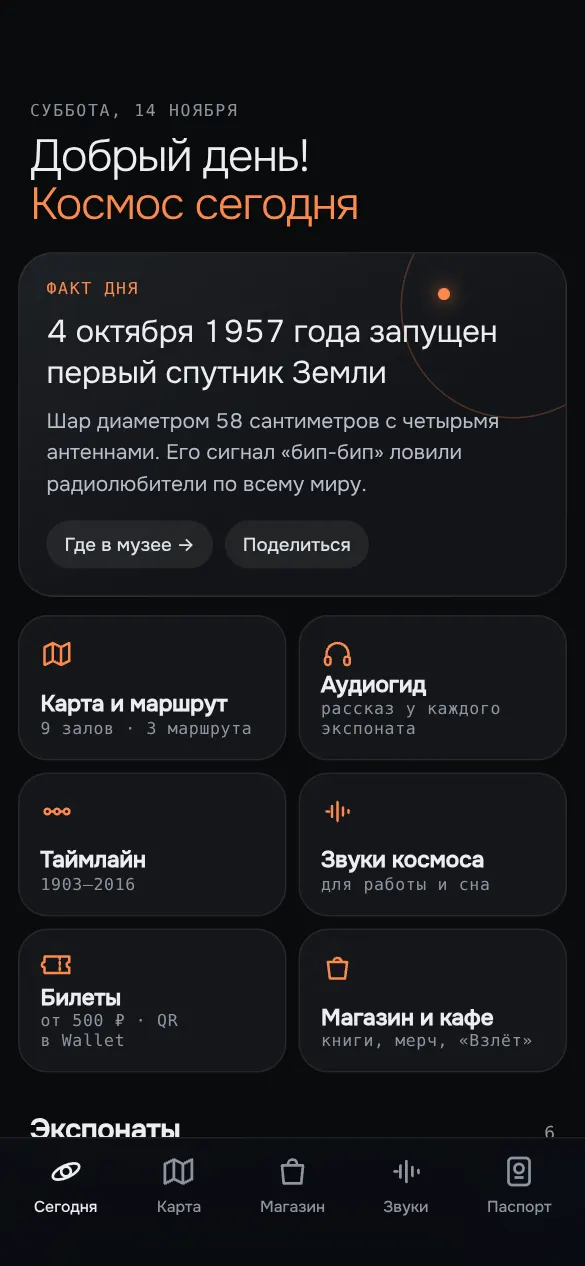
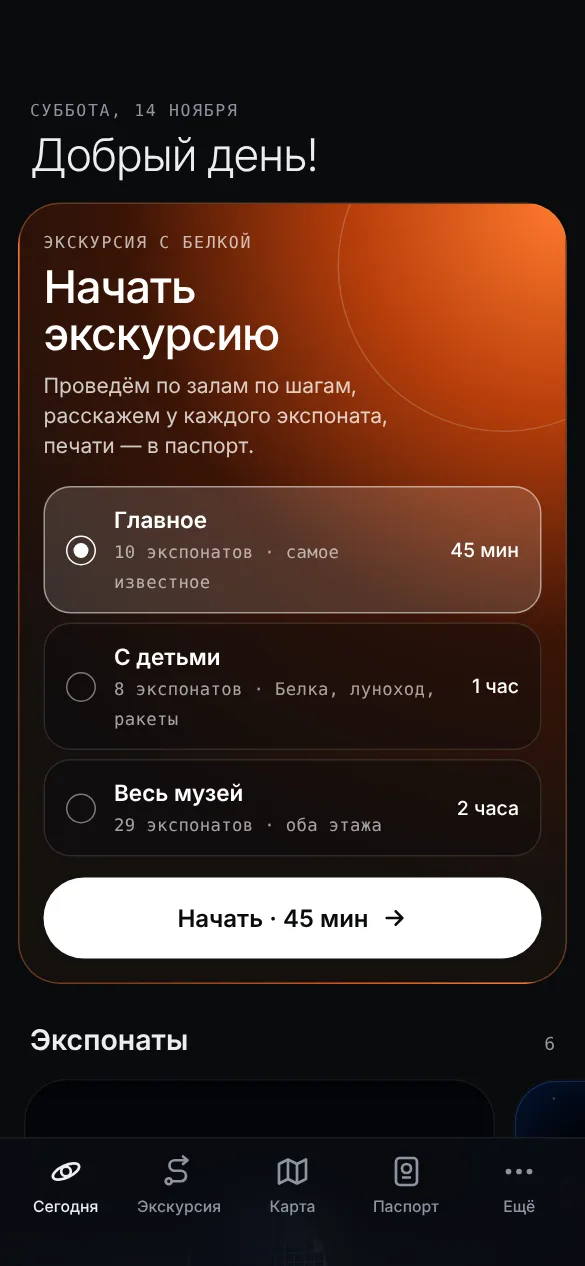
kosmo-museum: карта приложения под новую навигацию + слайд «Карта приложения»
Claude-Session: https://claude.ai/code/session_01YJBZo4ctwu5nxzdrpfljgu

diff --git a/kosmo-museum/flow/index.html b/kosmo-museum/flow/index.html
@@ -56,13 +56,13 @@ h2{font-weight:400;font-size:clamp(30px,4vw,48px);letter-spacing:-.03em;margin:9
 <div class="wrap">
   <div class="k">(01) «Музей в кармане» · Музей космонавтики</div>
   <h1>Карта <em>приложения</em></h1>
-  <p class="lead">Все экраны и переходы — и главный путь посетителя от монумента до последней печати в паспорте.</p>
+  <p class="lead">Все экраны и переходы. Главный путь: от «Начать экскурсию» на первом экране до печати и значка в паспорте.</p>
   <div class="legend"><span><i class="a"></i>главный путь посетителя</span><span><i></i>раздел приложения</span><span><i class="f"></i>экран или действие внутри раздела</span></div>
 
   <div class="scroll"><div class="board" id="board"><svg id="wires"></svg></div></div>
 
   <h2>Главный путь</h2>
-  <p class="sub">Семь шагов, которые проходит почти каждый: от первого запуска у монумента до итога визита. Остальное — ответвления, в которые можно зайти из любого шага.</p>
+  <p class="sub">Семь экранов, которые проходит почти каждый: от первого запуска до значка в паспорте. Остальное — ответвления, в которые можно зайти из любого шага.</p>
   <div class="strip" id="main"></div>
 
   <h2>Остальные экраны</h2>
@@ -71,9 +71,9 @@ h2{font-weight:400;font-size:clamp(30px,4vw,48px);letter-spacing:-.03em;margin:9
 
   <h2>Почему так</h2>
   <div class="notes">
-    <div class="note"><b>Одна точка входа</b><span>Всё начинается с «Сегодня»: факт дня, маршрут, экспонаты. Посетителю не нужно выбирать раздел — главное действие на первом экране.</span></div>
-    <div class="note"><b>Маршрут ведёт сам</b><span>После выбора маршрута включается аудиогид в мини-плеере: «следующий экспонат» всегда под пальцем, карта подсказывает, куда идти.</span></div>
-    <div class="note"><b>NFC — главный ритуал</b><span>Приложил телефон к табличке — открылось досье и упала печать. Один жест вместо поиска по меню, и повод пройти зал до конца.</span></div>
+    <div class="note"><b>Экскурсия — с первого экрана</b><span>В музее главный вопрос — «куда идти». Поэтому «Сегодня» открывается кнопкой «Начать экскурсию» с выбором времени, а во время визита — «Продолжить: следующий экспонат».</span></div>
+    <div class="note"><b>Пять вкладок вместо девяти входов</b><span>Сегодня · Экскурсия · Карта · Паспорт · Ещё. Магазин, кафе, билеты, квест и звуки ушли в «Ещё» — в зале они отвлекают от экскурсии.</span></div>
+    <div class="note"><b>NFC — главный ритуал</b><span>Приложил телефон к табличке — метка найдена, открылось досье, упала печать, маршрут сдвинулся. За 5 печатей — значок «Курсант», за 15 — «Пилот».</span></div>
     <div class="note"><b>Белка рядом, но не мешает</b><span>Гид открывается из любого экрана, а в остальное время живёт в иллюминаторе — в карточке и в плеере.</span></div>
     <div class="note"><b>Повод вернуться</b><span>Паспорт с наградами, квесты коллабораций, звуки космоса и факт дня в пуше работают и после визита.</span></div>
   </div>
@@ -86,32 +86,42 @@ const T = ['Онбординг', 'a', '', [
   ['Разрешения: NFC и уведомления', '', '', []]
 ]];
 const HUB = ['Главная «Сегодня»', 'a', '', [
-  ['Факт дня', '', '', [['Где в музее', 'f', '→ карта', []]]],
-  ['Карта', 'a', '', [
-    ['3D-карта · 2 этажа', 'f', '', []],
-    ['Поиск экспоната', 'f', '', []],
-    ['Маршрут', 'a', '45 мин · с детьми · весь', [
-      ['Аудиогид', 'a', 'мини-плеер', [
-        ['NFC-метка у таблички', 'a', '', [
+  ['Начать экскурсию', 'a', '45 мин · с детьми · весь музей', [
+    ['Экскурсия', 'a', 'вкладка · шаг за шагом', [
+      ['Следующий экспонат', 'a', 'зал · этаж', [
+        ['На карте', 'f', 'дорожка до экспоната', []],
+        ['NFC-метка у таблички', 'a', 'приложить телефон', [
           ['Досье экспоната', 'a', '', [
             ['Разбор: контурная схема', 'f', '', []],
             ['Кто создавал', 'f', 'портреты', []],
-            ['Печать в паспорт', 'a', '', [['Итог визита', 'a', '', []]]]
+            ['Печать в паспорт', 'a', '', [
+              ['Значок за прогресс', 'a', '5 · 15 · весь маршрут', [['Итог визита', 'a', '', []]]]
+            ]]
           ]]
-        ]],
-        ['Полный плеер', 'f', '', []]
-      ]]
-    ]],
-    ['Схема зала', 'f', 'контур', [['Досье экспоната', 'f', '', []]]]
+        ]]
+      ]],
+      ['Аудиогид', 'f', 'весь маршрут подряд', [['Полный плеер', 'f', '', []]]],
+      ['Сменить маршрут', 'f', '', []]
+    ]]
   ]],
+  ['Продолжить экскурсию', 'f', 'во время визита', []],
   ['Экспонаты', '', '', [['3D-облёт', 'f', 'Мир · Венера · Марс', [['Факты и конструкторы', 'f', '', []]]]]],
-  ['Спроси Белку', '', 'из любого экрана', [['Голос и подсказки', 'f', '', []]]],
-  ['Паспорт', '', '', [['Печати', 'f', '', []], ['Награды музея', 'f', '', []]]],
-  ['Билеты', '', '', [['QR в Wallet', 'f', '', []]]],
-  ['Квест-коллаборация', '', '', [['Вопросы у экспонатов', 'f', '', []]]],
-  ['Таймлайн', '', '1903–2016', []],
-  ['Магазин и кафе', '', '', [['Сувениры', 'f', '', []], ['Кафе «Взлёт»', 'f', '', []]]],
-  ['Звуки космоса', '', 'фокус-сессии', []]
+  ['Факт дня', '', 'внизу и в пуше', [['Где в музее', 'f', '→ карта', []]]],
+  ['Карта', '', 'вкладка', [
+    ['3D-карта · 2 этажа', 'f', '', []],
+    ['Поиск экспоната', 'f', '', []],
+    ['Схема зала', 'f', 'контур', []],
+    ['Начать экскурсию отсюда', 'f', '→ экскурсия', []]
+  ]],
+  ['Паспорт', '', 'вкладка', [['Печати', 'f', '', []], ['Значки и награды', 'f', '', []]]],
+  ['Ещё', '', 'вкладка', [
+    ['Билеты', 'f', 'QR в Wallet', []],
+    ['Магазин и кафе', 'f', '', []],
+    ['Квест-коллаборация', 'f', '', []],
+    ['Таймлайн', 'f', '1903–2016', []],
+    ['Звуки космоса', 'f', 'и фон станции', []],
+    ['Спроси Белку', 'f', 'гид голосом', []]
+  ]]
 ]];
 const board = document.getElementById('board'), svg = document.getElementById('wires');
 const ROW = 74, GAP = 64, TOP = 60;
@@ -135,7 +145,7 @@ const X = []; let x = 0; for (let c = 0; c < cols.length; c++){ X[c] = x; x += (
 const W = x, H = TOP + row * ROW + 20;
 board.style.width = W + 'px'; board.style.height = H + 'px'; svg.setAttribute('width', W); svg.setAttribute('height', H);
 const Y = (y) => TOP + y * ROW + ROW / 2;
-const heads = [[0, 'Вход'], [1, 'Первый запуск'], [3, 'Главная'], [4, 'Разделы'], [5, 'Экраны'], [6, 'В зале'], [7, 'Экспонат'], [8, 'Действия'], [9, 'Итог']];
+const heads = [[0, 'Вход'], [1, 'Первый запуск'], [3, 'Главная'], [4, 'Первый экран и вкладки'], [5, 'Экраны'], [6, 'В зале'], [7, 'У таблички'], [8, 'Экспонат'], [9, 'Паспорт'], [10, 'Награда'], [11, 'Итог']];
 for (const [c, t] of heads) if (X[c] != null && cols[c]){ const h = document.createElement('div'); h.className = 'colh'; h.style.left = X[c] + 'px'; h.textContent = t; board.appendChild(h); }
 for (const o of nodes){ const d = document.createElement('div'); d.className = 'n ' + o.k; d.innerHTML = o.t + (o.s ? `<small>${o.s}</small>` : ''); d.style.left = X[o.col] + 'px'; d.style.top = Y(o.y) + 'px'; board.appendChild(d); o.w = d.getBoundingClientRect().width; }
 // провода: из правого края родителя — вправо, поворот со скруглением, к левому краю ребёнка
@@ -149,8 +159,8 @@ walk(onb); for (const c of ob) wire(c, hub, false); walk(hub);
 for (const c of ob) P.push(`<circle cx="${X[c.col] + c.w}" cy="${Y(c.y)}" r="3"/>`);
 svg.innerHTML = P.join('');
 // плёнки экранов
-const MAIN = [['onboarding', 'Онбординг', 'Монумент, Белка, разрешения на NFC и уведомления'], ['today', 'Сегодня', 'Факт дня, маршрут и экспонаты на первом экране'], ['route', 'Маршрут', 'Главное за 45 минут, с детьми или весь музей'], ['player', 'Аудиогид', 'Рассказ у экспоната, «следующий» — в мини-плеере'], ['scheme', 'Схема зала', 'Где идти и что где стоит'], ['dossier', 'Досье', 'Открывается касанием NFC-метки у таблички'], ['pass', 'Паспорт', 'Печать за экспонат и награды музея']];
-const REST = [['map', '3D-карта', 'Оба этажа, поиск экспоната'], ['mir', '3D-облёт', '«Мир», «Венера-7», «Марс-3»'], ['guide', 'Спроси Белку', 'Гид голосом из любого экрана'], ['tickets', 'Билеты', 'Покупка и QR в Wallet'], ['quest', 'Квест', 'Коллаборации: вопросы у экспонатов'], ['timeline', 'Таймлайн', 'История космонавтики с «найти в музее»'], ['shop', 'Магазин и кафе', 'Сувениры, доставка, кафе «Взлёт»'], ['sounds', 'Звуки космоса', 'Фокус-сессии под звуки станции']];
+const MAIN = [['onboarding', 'Онбординг', 'Монумент, Белка, выбор маршрута, NFC'], ['today', 'Сегодня', 'Первым экраном — «Начать экскурсию» и выбор времени'], ['tour', 'Экскурсия', 'Один следующий шаг: экспонат, зал, этаж'], ['nfc', 'NFC у таблички', 'Приложил телефон — метка найдена, открывается досье'], ['stamp', 'Печать', 'Падает в паспорт, маршрут сдвигается'], ['badge', 'Значок', '5 печатей — «Курсант», 15 — «Пилот»'], ['continue', 'Продолжить', 'На главной во время визита: следующий экспонат и печати']];
+const REST = [['map', '3D-карта', 'Оба этажа, поиск, «начать экскурсию отсюда»'], ['scheme', 'Схема зала', 'Где идти и что где стоит'], ['dossier', 'Досье', 'Разбор экспоната и кто создавал'], ['player', 'Аудиогид', 'Весь маршрут подряд'], ['pass', 'Паспорт', 'Печати и значки'], ['more', 'Ещё', 'Билеты, магазин, квест, звуки, Белка'], ['mir', '3D-облёт', '«Мир», «Венера-7», «Марс-3»'], ['guide', 'Спроси Белку', 'Гид голосом из любого экрана'], ['tickets', 'Билеты', 'Покупка и QR в Wallet'], ['shop', 'Магазин и кафе', 'Сувениры, доставка, кафе «Взлёт»']];
 const strip = (id, arr, main) => { document.getElementById(id).innerHTML = arr.map(([f, t, p], i) => `<div class="shot ${main ? '' : 'o'}"><div class="ph"><img src="img/${f}.webp" alt="${t}" loading="lazy"></div><div class="st"><b>${String(i + 1).padStart(2, '0')}</b>${t}</div><p>${p}</p></div>` + (main && i < arr.length - 1 ? '<div class="arrow">→</div>' : '')).join(''); };
 strip('main', MAIN, true); strip('rest', REST, false);
 </script>

diff --git a/kosmo-museum/deck/index.html b/kosmo-museum/deck/index.html
@@ -71,6 +71,10 @@ td:first-child{color:#C9C7C2}td.base{color:var(--fg);font-weight:500}
   h1{font-size:40px}h2{font-size:26px}.lead{font-size:16px}
 }
 @media (prefers-reduced-motion:reduce){*{transition:none!important;scroll-behavior:auto!important}}
+.wrap{transition:grid-template-columns .45s}.wrap.wide{max-width:1640px;grid-template-columns:minmax(0,1fr) 0;gap:0}.wrap.wide .stage{visibility:hidden}.ch[data-wide]{max-width:none}.ch[data-wide] h2,.ch[data-wide]>p{max-width:860px}.ch[data-wide] .flowimg{max-height:58vh}
+.flowimg{display:block;margin:18px 0 0;border:1px solid rgba(255,255,255,.08);border-radius:18px;overflow:auto;background:#141516;max-height:52vh}
+.flowimg img{display:block;width:100%;min-width:1100px;height:auto}
+.flowleg{display:flex;flex-wrap:wrap;gap:8px 18px;margin-top:14px;font-size:13px;color:#A9A7A2}.flowleg i{display:inline-block;width:26px;height:12px;border-radius:7px;margin-right:8px;vertical-align:-1px;background:#FF8A4A}.flowleg i.g{background:#55585D}.flowleg i.o{background:none;border:1px solid #3A3C40}
 </style>
 
 <div class="wrap">
@@ -135,6 +139,14 @@ td:first-child{color:#C9C7C2}td.base{color:var(--fg);font-weight:500}
       </ul>
       <p class="note">Метки — пассивные NFC-наклейки под табличкой, без питания. Современные iPhone и Android читают их, просто поднеся телефон. Названия уровней — черновик, согласовать с музеем.</p>
       <div class="try"><span>Попробуйте</span><button class="btn" data-run="nfc">Повторить</button></div>
+    </section>
+
+    <section class="ch" data-act="flow" data-wide="1" data-cap="Карта приложения">
+      <div class="kick">Карта приложения · user flow</div>
+      <h2>Главный путь: от первого экрана до <em>значка</em></h2>
+      <p>Сегодня → «Начать экскурсию» → Экскурсия → следующий экспонат → NFC у таблички → досье → печать → значок → итог визита. Всё остальное — ветки вкладок Карта, Паспорт и Ещё.</p>
+      <div class="flowimg"><img src="img/flow_map.webp" alt="Карта приложения: экраны и переходы, главный путь выделен оранжевым"></div>
+      <div class="flowleg"><span><i></i>главный путь</span><span><i class="o"></i>раздел</span><span><i class="g"></i>экран внутри раздела</span><span>Интерактивная версия: <a href="https://claude.ai/artifact/8z7RQiwquugKeYgE1LTpr3" target="_blank" rel="noopener">карта приложения</a></span></div>
     </section>
 
     <section class="ch" data-act="onboarding" data-cap="Онбординг">
@@ -316,6 +328,7 @@ td:first-child{color:#C9C7C2}td.base{color:var(--fg);font-weight:500}
     document.getElementById('cnt').textContent = (i + 1) + ' / ' + chs.length; document.getElementById('prog').style.width = ((i + 1) / chs.length * 100) + '%';
     document.getElementById('prev').disabled = i === 0; document.getElementById('next').disabled = i === chs.length - 1;
     try { history.replaceState(null, '', '#s' + (i + 1)); } catch(_){}
+    document.querySelector('.wrap').classList.toggle('wide', !!c.dataset.wide);
     if (c.dataset.act !== curAct){ curAct = c.dataset.act; run(curAct); } }
   document.getElementById('prev').onclick = () => go(cur - 1); document.getElementById('next').onclick = () => go(cur + 1);
   const h0 = /^#s(\d+)$/.exec(location.hash); go(h0 ? +h0[1] - 1 : 0);
